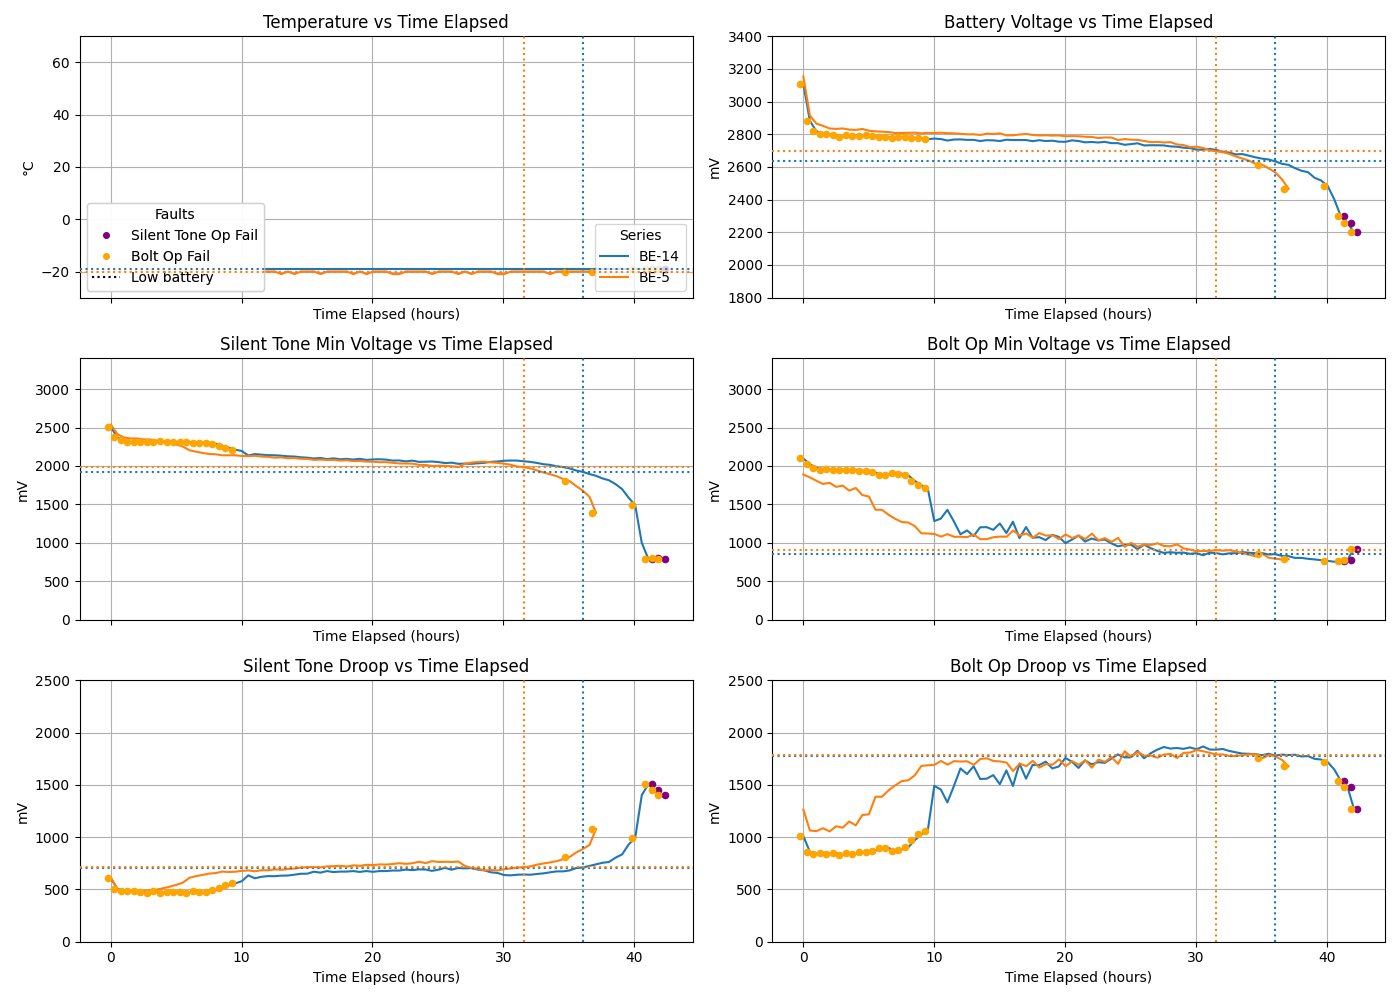
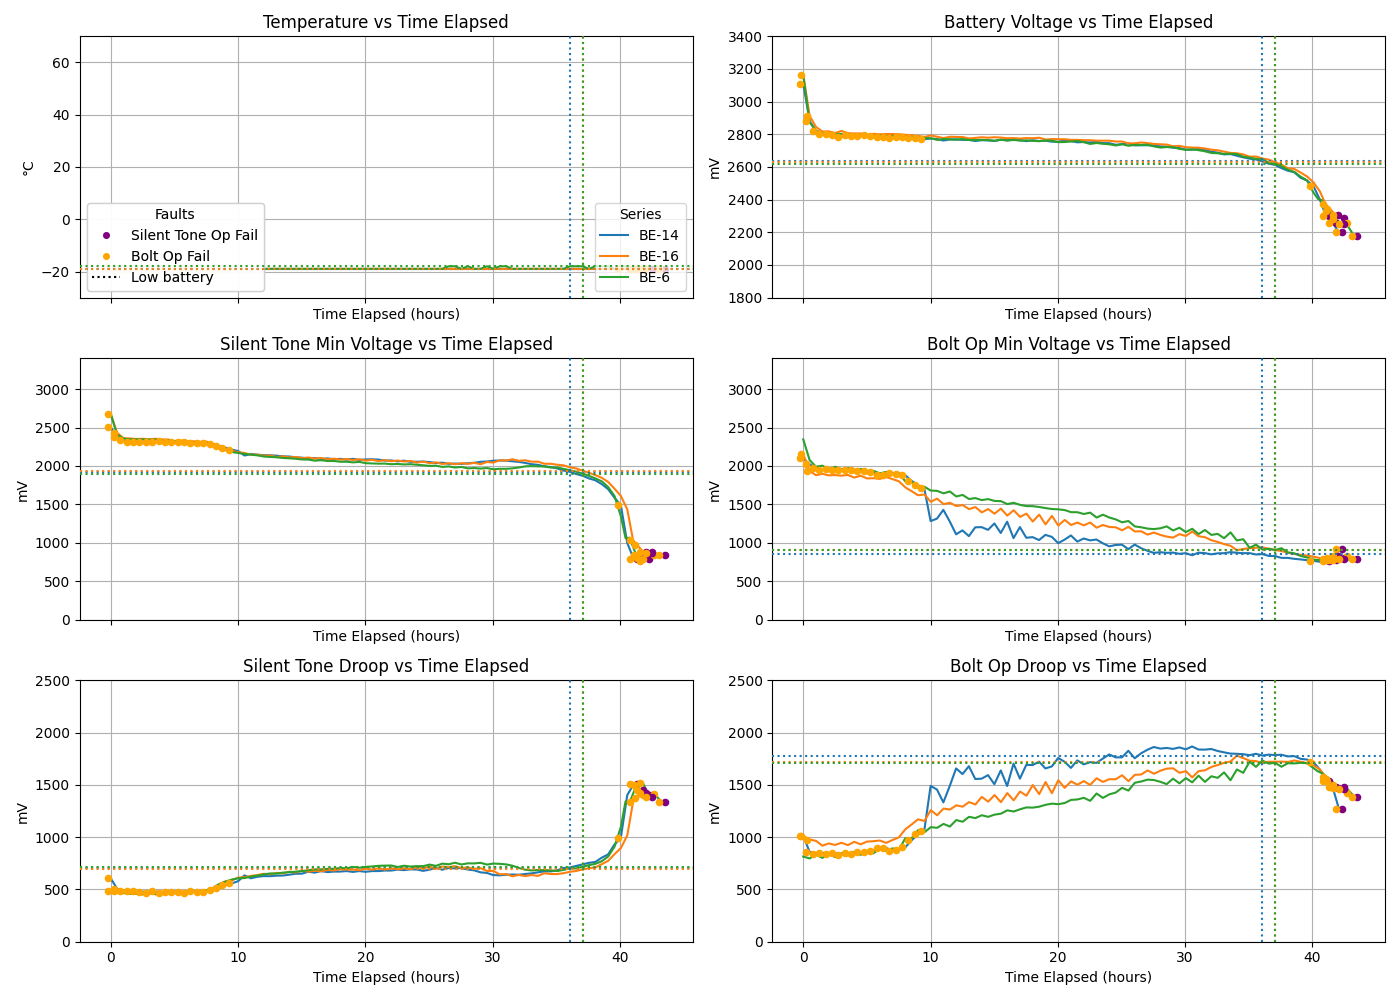
amazon m20c

diff --git a/plot_folder.py b/plot_folder.py
@@ -6,7 +6,7 @@ import numpy as np  # NEW
 from matplotlib.lines import Line2D
 
 # CONFIGURATION
-CSV_DIR = "csvs/manufacturers-cross-temp/temp-m20c/energizer"
+CSV_DIR = "csvs/manufacturers-cross-temp/temp-m20c/amazon"
 CSV_TAG = os.path.basename(os.path.normpath(CSV_DIR))
 PLOT_OUTPUT = f"plots/compare_all_{CSV_DIR.replace("/", "-")}.png"
 COMPUTE_LOW_BATT_BY_ALL_FAULTS=True
